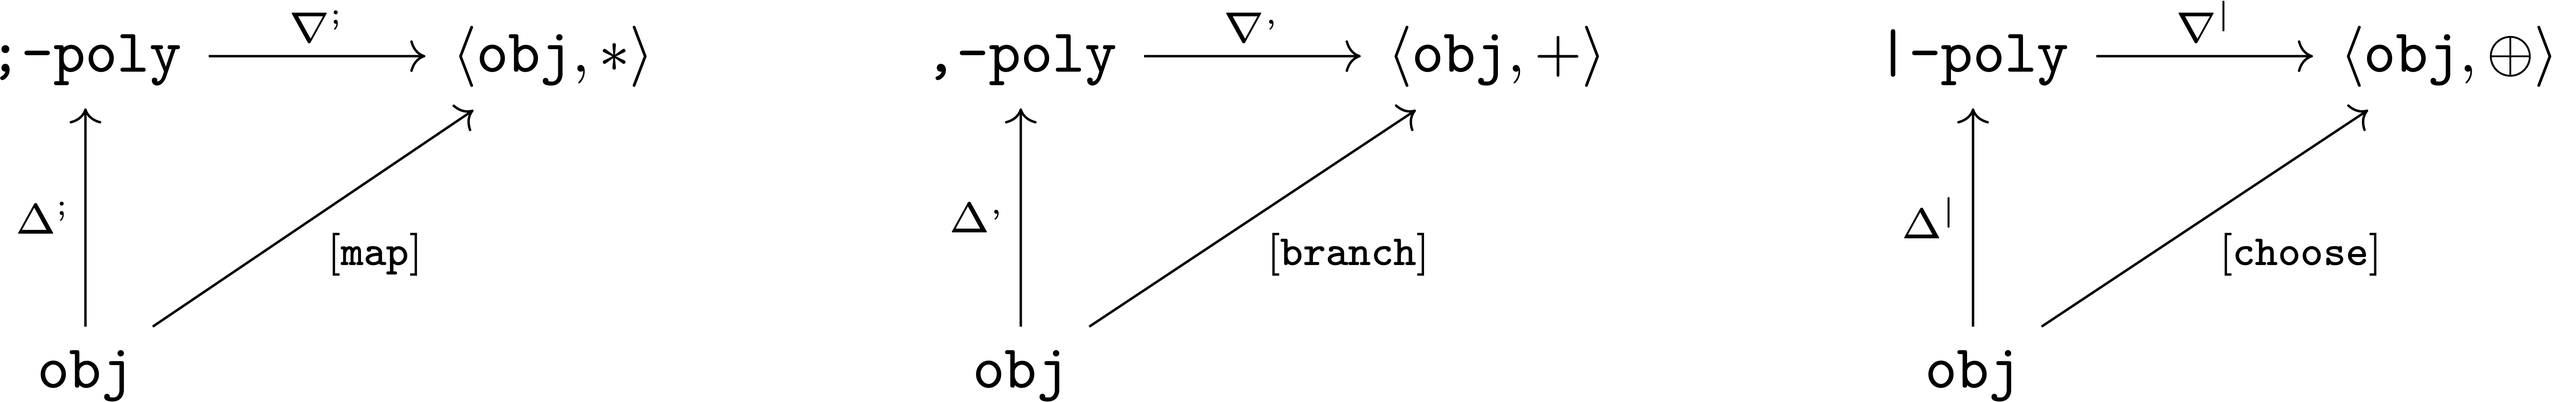
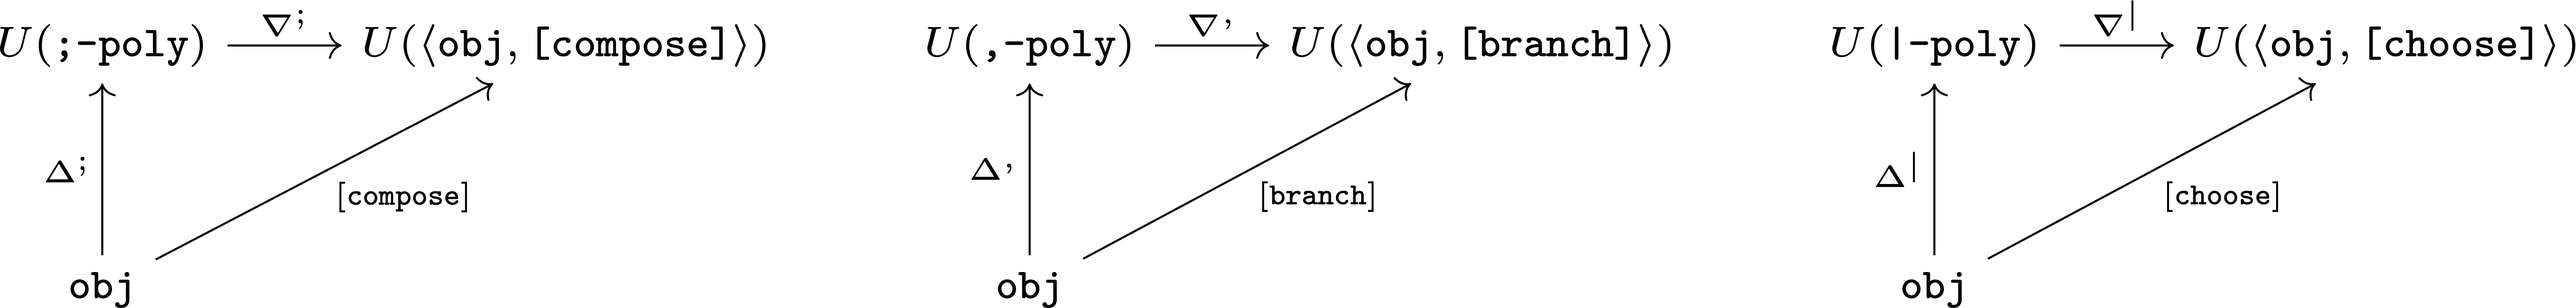
updated site

diff --git a/language.html b/language.html
@@ -1260,7 +1260,7 @@ mmlang&gt;</code></pre>
 <td class="tableblock halign-left valign-top"><p class="tableblock">multiply</p></td>
 <td class="tableblock halign-left valign-top"><p class="tableblock"><code>;</code></p></td>
 <td class="tableblock halign-left valign-top"><p class="tableblock">\$\ast\$</p></td>
-<td class="tableblock halign-left valign-top"><p class="tableblock"><code>[map]</code></p></td>
+<td class="tableblock halign-left valign-top"><p class="tableblock"><code>[compose]</code></p></td>
 </tr>
 <tr>
 <td class="tableblock halign-left valign-top"><p class="tableblock">add</p></td>
@@ -1277,15 +1277,39 @@ mmlang&gt;</code></pre>
 </tbody>
 </table>
 <div class="paragraph">
-<p>An mm-ADT <code>poly</code> (<a href="https://en.wikipedia.org/wiki/Polynomial">polynomial</a>) is an element of either a <em>serial</em> (<code>;</code>), <em>parallel</em> (<code>,</code>), or <em>choice</em> (<code>|</code>) <a href="https://en.wikipedia.org/wiki/Free_object">free</a> <a href="https://en.wikipedia.org/wiki/Trace_monoid">trace monoid</a> that is <a href="https://en.wikipedia.org/wiki/Adjoint_functors">left-adjoint</a> to a respective \$langle \tt{obj},\ast \rangle\$, \$langle \tt{obj},+ \rangle\$, or \$langle \tt{obj},\o+ \rangle\$ monoid. The <em>nabla functions</em>, \$\nabla^{-}: \tt{poly} \rightarrow \tt{obj} \$, fold a free <code>poly</code> structure down to an <code>obj</code> via the "left-to-right" application of the associated \$\langle \tt{obj},-\rangle\$ monoid&#8217;s operator.
+<p>An mm-ADT <code>poly</code> (<a href="https://en.wikipedia.org/wiki/Polynomial">polynomial</a>) is an element of either a <em>serial</em> (<code>;</code>), <em>parallel</em> (<code>,</code>), or <em>choice</em> (<code>|</code>) <a href="https://en.wikipedia.org/wiki/Free_object">free</a> <a href="https://en.wikipedia.org/wiki/Trace_monoid">trace monoid</a> that is <a href="https://en.wikipedia.org/wiki/Adjoint_functors">left-adjoint</a> to a respective \$langle \tt{obj},\tt{[compose] \rangle\$, \$langle \tt{obj},\tt{[branch]} \rangle\$, or \$langle \tt{obj}, \tt{[cho\ose]} \rangle\$ reducing, non-free monoid. The <em>nabla functions</em>, \$\nabla: \text{-poly} \rightarrow \tt{obj} \$, folds a free <code>poly</code> structure into an <code>obj{*}</code> via the applications of the reducing monoid&#8217;s operator in <code>inst</code> such that
 \[
-\nabla^-(\texttt{poly}) = \prod_{i} \texttt{poly}_i.
+\begin{split}
+\nabla^;(\texttt{poly}) &amp;=&amp; \texttt{[compose}, \texttt{poly}^{q_0}_0, \texttt{poly}^{q_1}_1,\ldots, \texttt{poly}^{q_n}_n,\texttt{]} \text{ with } q=\prod_{i&lt;n} q_i, \\
+\nabla^;(\texttt{poly}) &amp;=&amp; \texttt{[branch}, \texttt{poly}^{q_0}_0, \texttt{poly}^{q_1}_1,\ldots, \texttt{poly}^{q_n}_n,\texttt{]} \text{ with } q=\sum_{i&lt;n} q_i, \\
+\nabla^;(\texttt{poly}) &amp;=&amp; \texttt{[branch}, \texttt{poly}^{q_0}_0, \texttt{poly}^{q_1}_1,\ldots, \texttt{poly}^{q_n}_n,\texttt{]} \text{ with } q=(\min_{i&lt;n}(q_i),\max_{i&lt;n}(q_i)),
+\end{split}
 \]
-Both the <code>-poly</code> and \$\langle \tt{obj},- \rangle\$ monoids derive their carrier sets from the <a href="https://en.wikipedia.org/wiki/Initial_and_terminal_objects">initial</a> set of mm-ADT <code>objs</code>. The injective <em>delta functions</em>, \$\Delta:\tt{obj} \rightarrow \tt{poly}\$, yield the generators of the <code>-poly</code> monoid&#8217;s, where
+where <code>\nabla</code> is realized as the <a href="https://ncatlab.org/nlab/show/codiagonal">codiagonal</a> <code>&gt;-</code> (i.e. <code>[merge]</code>) instruction. the resultant <code>obj</code> is quantified within the specified <code>q</code> range. This is the general solution to deriving the the type quantifier during compilation. This range can be further refined with instruction semantics.</p>
+</div>
+<hr>
+<div class="imageblock text-center">
+<div class="content">
+<img src="./images/language/free-monoid-homomorphisms.png" alt="free monoid homomorphisms">
+</div>
+</div>
+<hr>
+<div class="paragraph">
+<p>Both the <code>-poly</code> and \$\langle \tt{obj},- \rangle\$ monoids derive their carrier sets from the <a href="https://en.wikipedia.org/wiki/Initial_and_terminal_objects">initial</a> set of mm-ADT <code>objs</code>. The injective <em>delta functions</em>, \$\Delta:\tt{obj} \rightarrow \text{-poly}\$, yield the generators of the <code>-poly</code> monoid&#8217;s, where
 \[
-\Delta^{-}(\tt{obj}) = [\tt{obj}].
+\begin{split}
+\Delta^{;}(\texttt{obj}) &amp;=&amp; [\texttt{obj};], \\
+\Delta^{,}(\texttt{obj}) &amp;=&amp; [\texttt{obj},], \\
+\Delta^{|}(\texttt{obj}) &amp;=&amp; [\texttt{obj}|],
+\end{split}
 \]
-Likewise, <code>[map]</code>, <code>[branch]</code>, and <code>[choose]</code> are the instruction representations of the composition of <code>objs</code>. The commuting diagrams below expose the <a href="https://en.wikipedia.org/wiki/Universal_property">universal property</a> of monoid mappings across these mm-ADT monoids.</p>
+and <code>\Delta</code> is realized as the <a href="https://en.wikipedia.org/wiki/Diagonal_morphism">diagonal</a> <code>-&lt;</code> (i.e. <code>[split]</code>) instruction. Likewise, <code>[compose]</code>, <code>[branch]</code>, and <code>[choose]</code> are the instruction representations of the composition of <code>objs</code>. If
+\[
+\begin{split}
+U: M \rightarrow \textbf{Set}
+\end{split}
+\]
+maps a monoid to it&#8217;s carrier set, then the diagrams below commute such that the <a href="https://en.wikipedia.org/wiki/Universal_property">universal property</a> of monoid mappings is realized in the lifted <code>poly</code> syntactic category.</p>
 </div>
 <div class="imageblock text-center">
 <div class="content">
@@ -1293,11 +1317,14 @@ Likewise, <code>[map]</code>, <code>[branch]</code>, and <code>[choose]</code> a
 </div>
 </div>
 <div class="paragraph">
-<p>Finally, the corresponding monoids across the three diagrams are the monoids of a particular encoding of the universal <a href="https://zenodo.org/record/2565243">stream ring</a> algebra. The <code>poly</code> monoids form a <a href="https://en.wikipedia.org/wiki/Polynomial_ring">polynomial ring</a> and thus, a syntactic <a href="https://en.wikipedia.org/wiki/Free_algebra">free algebra</a> that enables mm-ADT <a href="https://en.wikipedia.org/wiki/Metaprogramming">metaprogramming</a> by way of a <a href="https://en.wikipedia.org/wiki/Ring_homomorphism">ring homomorphism</a> from the <strong>structural</strong> <code>;,-poly</code> ring to the <strong>procedural</strong> \$\langle \tt{obj},\ast,+\rangle\$ ring.
+<p>Finally, the corresponding monoids across the three diagrams are the monoids of a particular encoding of the universal <a href="https://zenodo.org/record/2565243">stream ring</a> algebra. The <code>poly</code> monoids form a <a href="https://en.wikipedia.org/wiki/Polynomial_ring">polynomial ring</a> and thus, a syntactic <a href="https://en.wikipedia.org/wiki/Free_algebra">free algebra</a> that enables mm-ADT <a href="https://en.wikipedia.org/wiki/Metaprogramming">metaprogramming</a> by way of a <a href="https://en.wikipedia.org/wiki/Ring_homomorphism">ring homomorphism</a> from the <strong>structural</strong> ` free ring to the <strong>procedural</strong> reducing ring.
 \[
-;,-\texttt{poly}  \xrightarrow{\;\;\;\nabla^{;,}\;\;\;} \langle \texttt{obj},\ast, + \rangle
+;,-\texttt{poly}  \xrightarrow{\;\;\;\nabla^{;}\;\;\;} \langle \texttt{obj},\texttt{[compose][branch]}, \rangle
 \]
-In terms of the mm-ADT VMs component architecture, this ring homomorphism maps a <strong>language</strong> to a <strong>processor</strong> through the common communication medium of <code>objs</code> provided by <strong>storage</strong>. All mm-ADT compliant components are faithful to <code>obj</code> and the stream ring axioms that bind them regardless of their particular ring encoding. In this way, the mm-ADT VM remains agnostic to the specifics of the component implementations and thus, mm-ADT supports the creation of <em>synthetic data systems</em>.</p>
+where the <em>branch</em> component forms a group with <code>-&lt;[a{q},a{-q}]&gt;- = obj{0}</code> and <code>[branch,a{q},a{-q}] = obj{0}</code>.</p>
+</div>
+<div class="paragraph">
+<p>In terms of the mm-ADT VMs component architecture, this ring homomorphism maps a <strong>language</strong> to a <strong>processor</strong> through the common communication medium of <code>objs</code> provided by <strong>storage</strong>. All mm-ADT compliant components are faithful to <code>obj</code> and the stream ring axioms that bind them regardless of their particular ring encoding. In this way, the mm-ADT VM remains agnostic to the specifics of the component implementations and thus, mm-ADT supports the creation of <em>synthetic data systems</em>.</p>
 </div>
 <div class="imageblock text-center">
 <div class="content">
@@ -2030,7 +2057,7 @@ mmlang&gt; 1&lt;[plus,1];[mult,2]&gt;
 </div>
 <div id="footer">
 <div id="footer-text">
-Last updated 2020-05-22 04:41:45 -0600
+Last updated 2020-05-22 16:45:55 -0600
 </div>
 </div>
 </body>

diff --git a/index.html b/index.html
@@ -1541,7 +1541,7 @@ mmlang&gt;</code></pre>
 <td class="tableblock halign-left valign-top"><p class="tableblock">multiply</p></td>
 <td class="tableblock halign-left valign-top"><p class="tableblock"><code>;</code></p></td>
 <td class="tableblock halign-left valign-top"><p class="tableblock">\$\ast\$</p></td>
-<td class="tableblock halign-left valign-top"><p class="tableblock"><code>[map]</code></p></td>
+<td class="tableblock halign-left valign-top"><p class="tableblock"><code>[compose]</code></p></td>
 </tr>
 <tr>
 <td class="tableblock halign-left valign-top"><p class="tableblock">add</p></td>
@@ -1558,15 +1558,39 @@ mmlang&gt;</code></pre>
 </tbody>
 </table>
 <div class="paragraph">
-<p>An mm-ADT <code>poly</code> (<a href="https://en.wikipedia.org/wiki/Polynomial">polynomial</a>) is an element of either a <em>serial</em> (<code>;</code>), <em>parallel</em> (<code>,</code>), or <em>choice</em> (<code>|</code>) <a href="https://en.wikipedia.org/wiki/Free_object">free</a> <a href="https://en.wikipedia.org/wiki/Trace_monoid">trace monoid</a> that is <a href="https://en.wikipedia.org/wiki/Adjoint_functors">left-adjoint</a> to a respective \$langle \tt{obj},\ast \rangle\$, \$langle \tt{obj},+ \rangle\$, or \$langle \tt{obj},\o+ \rangle\$ monoid. The <em>nabla functions</em>, \$\nabla^{-}: \tt{poly} \rightarrow \tt{obj} \$, fold a free <code>poly</code> structure down to an <code>obj</code> via the "left-to-right" application of the associated \$\langle \tt{obj},-\rangle\$ monoid&#8217;s operator.
+<p>An mm-ADT <code>poly</code> (<a href="https://en.wikipedia.org/wiki/Polynomial">polynomial</a>) is an element of either a <em>serial</em> (<code>;</code>), <em>parallel</em> (<code>,</code>), or <em>choice</em> (<code>|</code>) <a href="https://en.wikipedia.org/wiki/Free_object">free</a> <a href="https://en.wikipedia.org/wiki/Trace_monoid">trace monoid</a> that is <a href="https://en.wikipedia.org/wiki/Adjoint_functors">left-adjoint</a> to a respective \$langle \tt{obj},\tt{[compose] \rangle\$, \$langle \tt{obj},\tt{[branch]} \rangle\$, or \$langle \tt{obj}, \tt{[cho\ose]} \rangle\$ reducing, non-free monoid. The <em>nabla functions</em>, \$\nabla: \text{-poly} \rightarrow \tt{obj} \$, folds a free <code>poly</code> structure into an <code>obj{*}</code> via the applications of the reducing monoid&#8217;s operator in <code>inst</code> such that
 \[
-\nabla^-(\texttt{poly}) = \prod_{i} \texttt{poly}_i.
+\begin{split}
+\nabla^;(\texttt{poly}) &amp;=&amp; \texttt{[compose}, \texttt{poly}^{q_0}_0, \texttt{poly}^{q_1}_1,\ldots, \texttt{poly}^{q_n}_n,\texttt{]} \text{ with } q=\prod_{i&lt;n} q_i, \\
+\nabla^;(\texttt{poly}) &amp;=&amp; \texttt{[branch}, \texttt{poly}^{q_0}_0, \texttt{poly}^{q_1}_1,\ldots, \texttt{poly}^{q_n}_n,\texttt{]} \text{ with } q=\sum_{i&lt;n} q_i, \\
+\nabla^;(\texttt{poly}) &amp;=&amp; \texttt{[branch}, \texttt{poly}^{q_0}_0, \texttt{poly}^{q_1}_1,\ldots, \texttt{poly}^{q_n}_n,\texttt{]} \text{ with } q=(\min_{i&lt;n}(q_i),\max_{i&lt;n}(q_i)),
+\end{split}
 \]
-Both the <code>-poly</code> and \$\langle \tt{obj},- \rangle\$ monoids derive their carrier sets from the <a href="https://en.wikipedia.org/wiki/Initial_and_terminal_objects">initial</a> set of mm-ADT <code>objs</code>. The injective <em>delta functions</em>, \$\Delta:\tt{obj} \rightarrow \tt{poly}\$, yield the generators of the <code>-poly</code> monoid&#8217;s, where
+where <code>\nabla</code> is realized as the <a href="https://ncatlab.org/nlab/show/codiagonal">codiagonal</a> <code>&gt;-</code> (i.e. <code>[merge]</code>) instruction. the resultant <code>obj</code> is quantified within the specified <code>q</code> range. This is the general solution to deriving the the type quantifier during compilation. This range can be further refined with instruction semantics.</p>
+</div>
+<hr>
+<div class="imageblock text-center">
+<div class="content">
+<img src="./images/language/free-monoid-homomorphisms.png" alt="free monoid homomorphisms">
+</div>
+</div>
+<hr>
+<div class="paragraph">
+<p>Both the <code>-poly</code> and \$\langle \tt{obj},- \rangle\$ monoids derive their carrier sets from the <a href="https://en.wikipedia.org/wiki/Initial_and_terminal_objects">initial</a> set of mm-ADT <code>objs</code>. The injective <em>delta functions</em>, \$\Delta:\tt{obj} \rightarrow \text{-poly}\$, yield the generators of the <code>-poly</code> monoid&#8217;s, where
 \[
-\Delta^{-}(\tt{obj}) = [\tt{obj}].
+\begin{split}
+\Delta^{;}(\texttt{obj}) &amp;=&amp; [\texttt{obj};], \\
+\Delta^{,}(\texttt{obj}) &amp;=&amp; [\texttt{obj},], \\
+\Delta^{|}(\texttt{obj}) &amp;=&amp; [\texttt{obj}|],
+\end{split}
 \]
-Likewise, <code>[map]</code>, <code>[branch]</code>, and <code>[choose]</code> are the instruction representations of the composition of <code>objs</code>. The commuting diagrams below expose the <a href="https://en.wikipedia.org/wiki/Universal_property">universal property</a> of monoid mappings across these mm-ADT monoids.</p>
+and <code>\Delta</code> is realized as the <a href="https://en.wikipedia.org/wiki/Diagonal_morphism">diagonal</a> <code>-&lt;</code> (i.e. <code>[split]</code>) instruction. Likewise, <code>[compose]</code>, <code>[branch]</code>, and <code>[choose]</code> are the instruction representations of the composition of <code>objs</code>. If
+\[
+\begin{split}
+U: M \rightarrow \textbf{Set}
+\end{split}
+\]
+maps a monoid to it&#8217;s carrier set, then the diagrams below commute such that the <a href="https://en.wikipedia.org/wiki/Universal_property">universal property</a> of monoid mappings is realized in the lifted <code>poly</code> syntactic category.</p>
 </div>
 <div class="imageblock text-center">
 <div class="content">
@@ -1574,11 +1598,14 @@ Likewise, <code>[map]</code>, <code>[branch]</code>, and <code>[choose]</code> a
 </div>
 </div>
 <div class="paragraph">
-<p>Finally, the corresponding monoids across the three diagrams are the monoids of a particular encoding of the universal <a href="https://zenodo.org/record/2565243">stream ring</a> algebra. The <code>poly</code> monoids form a <a href="https://en.wikipedia.org/wiki/Polynomial_ring">polynomial ring</a> and thus, a syntactic <a href="https://en.wikipedia.org/wiki/Free_algebra">free algebra</a> that enables mm-ADT <a href="https://en.wikipedia.org/wiki/Metaprogramming">metaprogramming</a> by way of a <a href="https://en.wikipedia.org/wiki/Ring_homomorphism">ring homomorphism</a> from the <strong>structural</strong> <code>;,-poly</code> ring to the <strong>procedural</strong> \$\langle \tt{obj},\ast,+\rangle\$ ring.
+<p>Finally, the corresponding monoids across the three diagrams are the monoids of a particular encoding of the universal <a href="https://zenodo.org/record/2565243">stream ring</a> algebra. The <code>poly</code> monoids form a <a href="https://en.wikipedia.org/wiki/Polynomial_ring">polynomial ring</a> and thus, a syntactic <a href="https://en.wikipedia.org/wiki/Free_algebra">free algebra</a> that enables mm-ADT <a href="https://en.wikipedia.org/wiki/Metaprogramming">metaprogramming</a> by way of a <a href="https://en.wikipedia.org/wiki/Ring_homomorphism">ring homomorphism</a> from the <strong>structural</strong> ` free ring to the <strong>procedural</strong> reducing ring.
 \[
-;,-\texttt{poly}  \xrightarrow{\;\;\;\nabla^{;,}\;\;\;} \langle \texttt{obj},\ast, + \rangle
+;,-\texttt{poly}  \xrightarrow{\;\;\;\nabla^{;}\;\;\;} \langle \texttt{obj},\texttt{[compose][branch]}, \rangle
 \]
-In terms of the mm-ADT VMs component architecture, this ring homomorphism maps a <strong>language</strong> to a <strong>processor</strong> through the common communication medium of <code>objs</code> provided by <strong>storage</strong>. All mm-ADT compliant components are faithful to <code>obj</code> and the stream ring axioms that bind them regardless of their particular ring encoding. In this way, the mm-ADT VM remains agnostic to the specifics of the component implementations and thus, mm-ADT supports the creation of <em>synthetic data systems</em>.</p>
+where the <em>branch</em> component forms a group with <code>-&lt;[a{q},a{-q}]&gt;- = obj{0}</code> and <code>[branch,a{q},a{-q}] = obj{0}</code>.</p>
+</div>
+<div class="paragraph">
+<p>In terms of the mm-ADT VMs component architecture, this ring homomorphism maps a <strong>language</strong> to a <strong>processor</strong> through the common communication medium of <code>objs</code> provided by <strong>storage</strong>. All mm-ADT compliant components are faithful to <code>obj</code> and the stream ring axioms that bind them regardless of their particular ring encoding. In this way, the mm-ADT VM remains agnostic to the specifics of the component implementations and thus, mm-ADT supports the creation of <em>synthetic data systems</em>.</p>
 </div>
 <div class="imageblock text-center">
 <div class="content">

diff --git a/images/syntax-highlighter.js b/images/syntax-highlighter.js
@@ -21,7 +21,7 @@ $(document).ready(function(){
                   "type":    ["",       ospan + "#369" + bold + cspan],     // dark blue
                   "special": ["",       ospan + "#710" + cspan],            // dark red
                   "plain":   ["",       ospan + "#000" + cspan]};           // normal black text
-  var items =    {"op":      ["a","branch","neg","get","gte","lte","gt","lt","mult","plus","start",
+  var items =    {"op":      ["a","compose","branch","neg","get","gte","lte","gt","lt","mult","plus","start",
                               "one","zero","noop","eq","is","id","db","explain","count","fold","map",
                               "split","merge","head","tail","div","minus","choose"],
                   "infix":   ["|","&&"],
